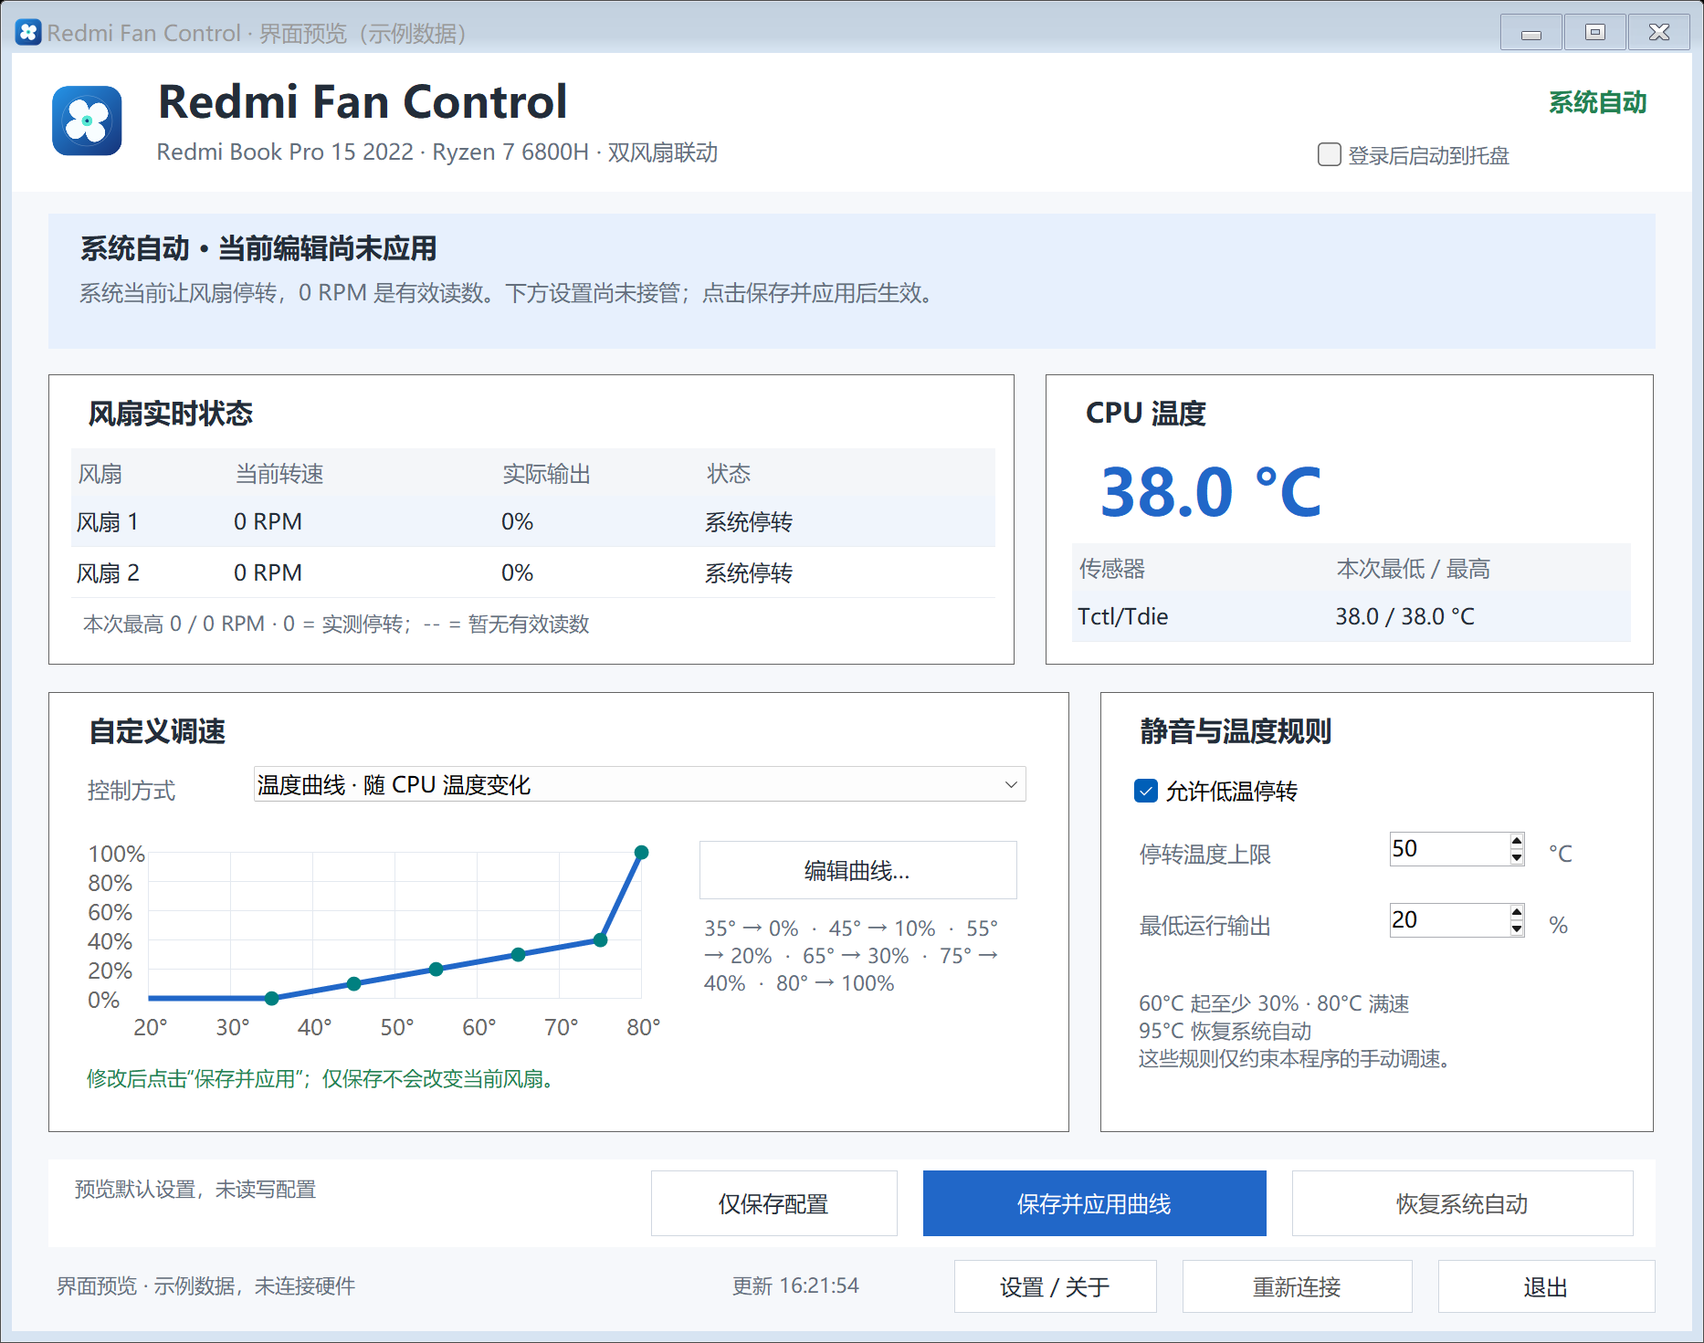
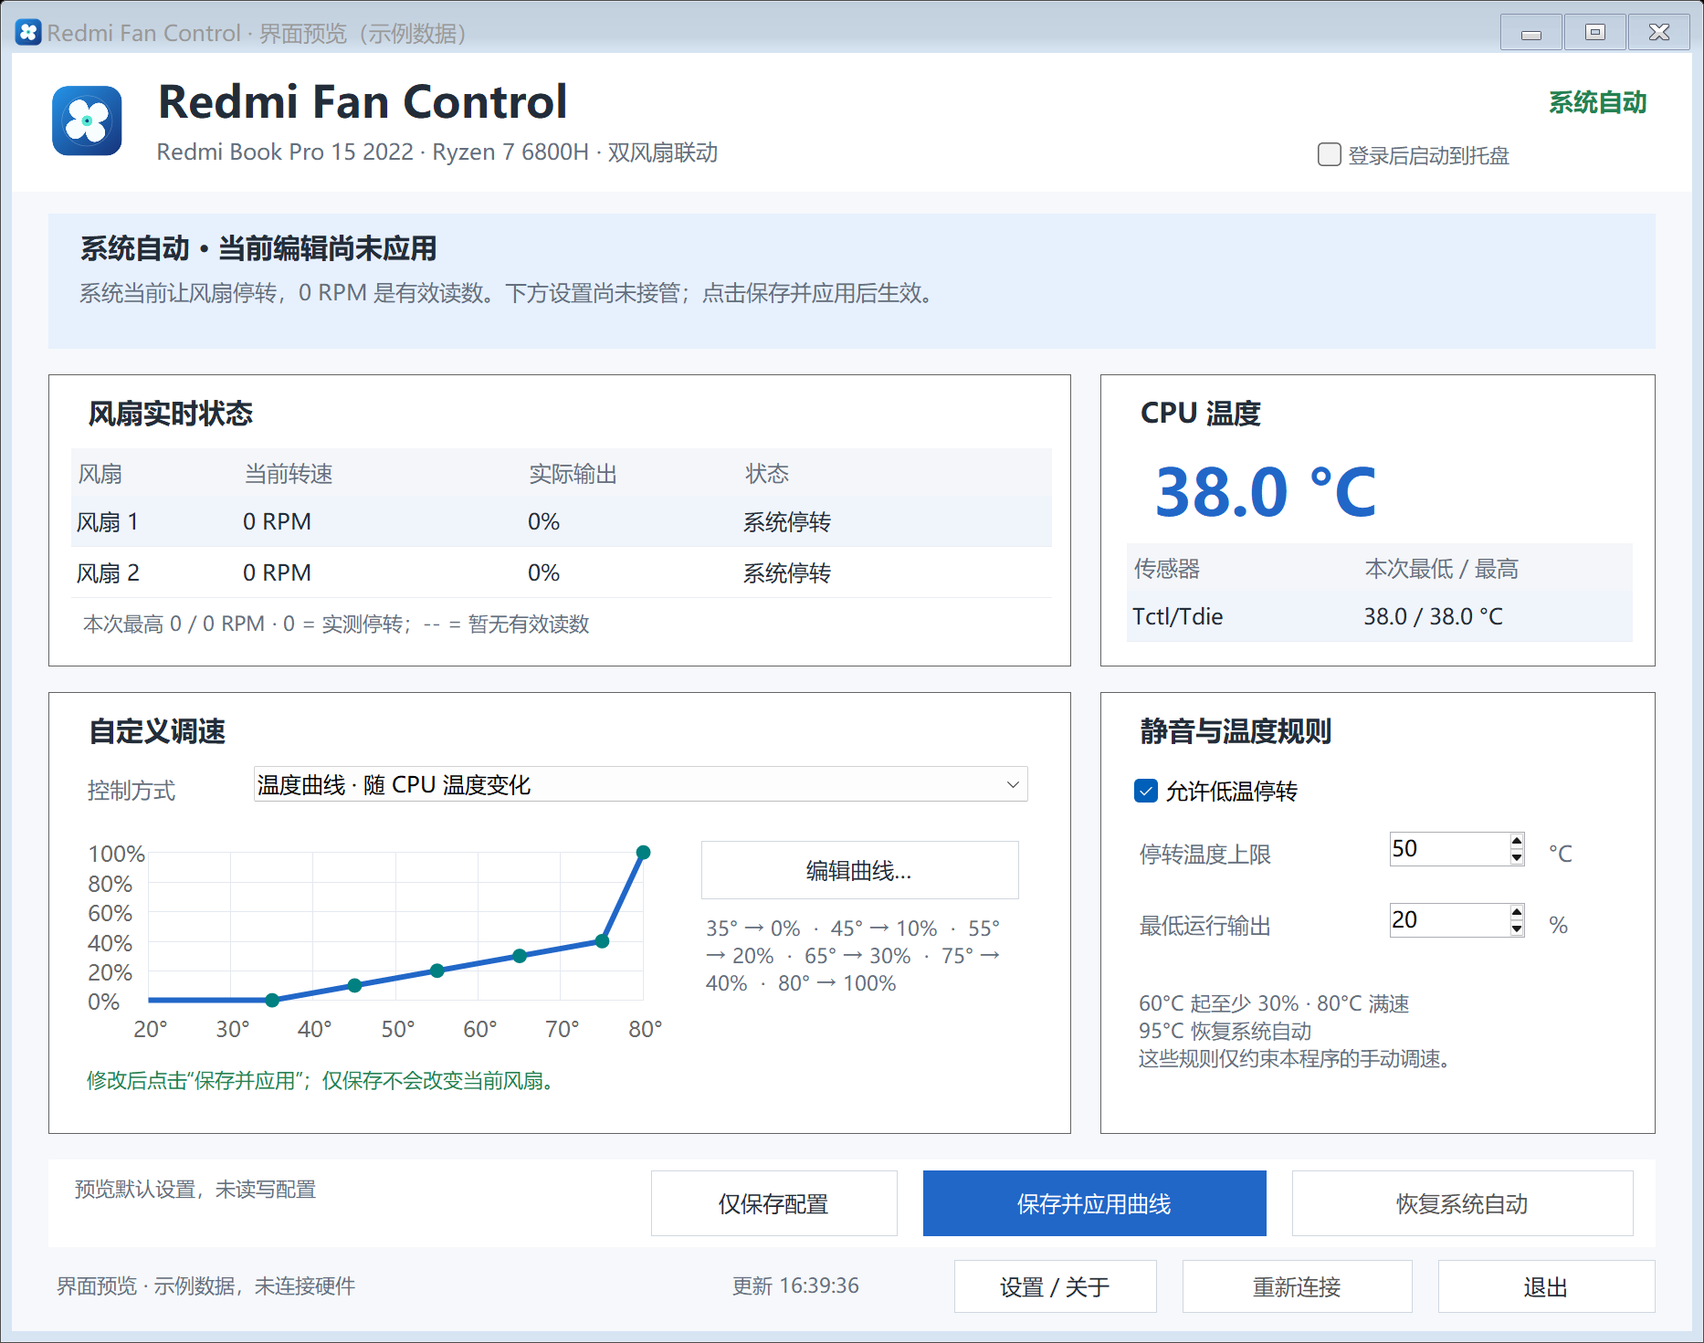
Fix maximize and restore layout in 0.9.1

diff --git a/app/MainForm.Layout.cs b/app/MainForm.Layout.cs
@@ -12,8 +12,8 @@ namespace RedmiFanControl {
             ClientSize=new Size(920,700);MinimumSize=new Size(760,520);
             StartPosition=FormStartPosition.CenterScreen;Font=new Font("Microsoft YaHei UI",9);
             BackColor=Color.FromArgb(246,248,251);Icon=AppBrand.WindowIcon();
-            var scroll=new Panel{Dock=DockStyle.Fill,AutoScroll=true};Controls.Add(scroll);
-            canvas=new Panel{Size=new Size(920,700),Location=Point.Empty};scroll.Controls.Add(canvas);
+            viewport=new Panel{Dock=DockStyle.Fill,AutoScroll=true};Controls.Add(viewport);
+            canvas=new Panel{Size=new Size(920,700),Location=Point.Empty};viewport.Controls.Add(canvas);
             var header=new Panel{Location=Point.Empty,Size=new Size(920,76),BackColor=Color.White};canvas.Controls.Add(header);
             var logo=new PictureBox{Image=AppBrand.HeaderImage(),Location=new Point(20,16),Size=new Size(42,42),SizeMode=PictureBoxSizeMode.Zoom};header.Controls.Add(logo);
             AddLabel(header,"Redmi Fan Control",74,10,520,30,18,Ink,true);
@@ -23,26 +23,26 @@ namespace RedmiFanControl {
             statePanel=new Panel{Location=new Point(20,88),Size=new Size(880,74),BackColor=Color.FromArgb(231,240,253)};canvas.Controls.Add(statePanel);
             stateHeading=AddLabel(statePanel,"正在连接硬件",14,8,850,25,11,Ink,true);
             note=AddLabel(statePanel,"连接后可查看温度与转速。",14,35,850,34,9,Muted,false);
-            var left=Section("风扇实时状态",20,176,530,160);
+            var left=fanSection=Section("风扇实时状态",20,176,530,160);
             fans=Grid(left,12,40,506,82,new string[]{"风扇","当前转速","实际输出","状态"},new float[]{17,29,22,32});
             fans.Rows.Add("风扇 1","--","--","等待数据");fans.Rows.Add("风扇 2","--","--","等待数据");
             fanHint=AddLabel(left,"等待实时数据；读取失败显示 --。",16,128,496,22,8,Muted,false);
-            var right=Section("CPU 温度",566,176,334,160);
+            var right=temperatureSection=Section("CPU 温度",566,176,334,160);
             cpuBadge=AddLabel(right,"-- °C",20,40,290,45,26,Blue,true);
             sensors=Grid(right,14,92,306,55,new string[]{"传感器","本次最低 / 最高"},new float[]{46,54});
             sensors.Rows.Add("Tctl/Tdie","--");
-            var control=Section("自定义调速",20,350,560,242);
+            var control=controlSection=Section("自定义调速",20,350,560,242);
             AddLabel(control,"控制方式",18,45,90,26,9,Muted,false);
             controlMode=new ComboBox{DropDownStyle=ComboBoxStyle.DropDownList,Location=new Point(112,40),Size=new Size(425,29)};
             controlMode.Items.AddRange(new object[]{"固定百分比 · 0–100%","目标转速 · RPM","温度曲线 · 随 CPU 温度变化"});controlMode.SelectedIndex=2;control.Controls.Add(controlMode);
             percentPanel=new Panel{Location=new Point(16,78),Size=new Size(526,116)};control.Controls.Add(percentPanel);
             slider=new TrackBar{Minimum=0,Maximum=100,Value=60,TickFrequency=10,SmallChange=1,LargeChange=5,Location=new Point(0,4),Size=new Size(360,46)};percentPanel.Controls.Add(slider);
             number=new NumericUpDown{Minimum=0,Maximum=100,Value=60,Location=new Point(377,12),Size=new Size(88,28)};percentPanel.Controls.Add(number);
-            AddLabel(percentPanel,"%",474,15,30,23,10,Muted,false);
+            var percentUnit=AddLabel(percentPanel,"%",474,15,30,23,10,Muted,false);
             AddLabel(percentPanel,"快捷预设",8,65,80,24,9,Muted,false);
             presets=new ComboBox{DropDownStyle=ComboBoxStyle.DropDownList,Location=new Point(96,60),Size=new Size(181,28)};
             foreach(int value in PresetValues)presets.Items.Add(value==0?"0% · 请求停转":value+"%" );presets.SelectedIndex=4;percentPanel.Controls.Add(presets);
-            AddLabel(percentPanel,"实际输出受右侧规则约束",294,65,225,25,8,Muted,false);
+            var percentHint=AddLabel(percentPanel,"实际输出受右侧规则约束",294,65,225,25,8,Muted,false);
             rpmPanel=new Panel{Location=percentPanel.Location,Size=percentPanel.Size};control.Controls.Add(rpmPanel);
             AddLabel(rpmPanel,"目标转速",8,14,100,26,11,Ink,true);
             rpmTarget=new NumericUpDown{Minimum=0,Maximum=6000,Increment=100,Value=3000,Location=new Point(118,11),Size=new Size(130,30)};rpmPanel.Controls.Add(rpmTarget);
@@ -53,7 +53,7 @@ namespace RedmiFanControl {
             curveText=new TextBox{Visible=false,Text=CurveFormat.Format(new UserConfiguration().Curve)};control.Controls.Add(curveText);
             InitializeConfigurationUi(curvePanel);
             validation=AddLabel(control,"",18,203,520,28,8,Muted,false);
-            var rules=Section("静音与温度规则",596,350,304,242);InitializeStopRules(rules);
+            var rules=rulesSection=Section("静音与温度规则",596,350,304,242);InitializeStopRules(rules);
             var footer=new Panel{Location=new Point(20,606),Size=new Size(880,48),BackColor=Color.White};canvas.Controls.Add(footer);
             configStatus=AddLabel(footer,"尚未保存配置",12,8,310,32,8,Muted,false);
             saveConfig=Button(footer,"仅保存配置",330,6,135,36,false);saveConfig.Click+=delegate{SaveConfigurationUi();};
@@ -65,6 +65,16 @@ namespace RedmiFanControl {
             reconnect=Button(canvas,"连接硬件",641,661,126,29,false);exit=Button(canvas,"退出",781,661,119,29,false);
             Disposed+=delegate{logo.Image.Dispose();Icon.Dispose();hints.Dispose();timer.Dispose();tray.Dispose();};
             ResumeLayout(false);UiScale.Apply(this,new Size(920,700),new Size(760,520));
+            // Apply anchors only after DPI scaling, so parent resizing cannot scale offsets twice.
+            AnchorMany(AnchorStyles.Top|AnchorStyles.Left|AnchorStyles.Right,header,statePanel,stateHeading,note,fans,fanHint,sensors,controlMode,percentPanel,rpmPanel,slider);
+            AnchorMany(AnchorStyles.Top|AnchorStyles.Left|AnchorStyles.Right,cpuBadge,left.Controls[0],right.Controls[0],control.Controls[0],rules.Controls[0]);
+            AnchorMany(AnchorStyles.Top|AnchorStyles.Right,mode,startupBox,number,percentUnit,percentHint,editCurve,curveSummary);
+            AnchorMany(AnchorStyles.Top|AnchorStyles.Bottom|AnchorStyles.Left|AnchorStyles.Right,curvePanel,curvePreview);
+            AnchorMany(AnchorStyles.Bottom|AnchorStyles.Left|AnchorStyles.Right,validation,footer,status);
+            AnchorMany(AnchorStyles.Bottom|AnchorStyles.Right,updated,data,reconnect,exit);
+            AnchorMany(AnchorStyles.Top|AnchorStyles.Right,saveConfig,apply,automatic);
+            AnchorMany(AnchorStyles.Top|AnchorStyles.Left|AnchorStyles.Right,configStatus);
+            InitializeResponsiveLayout();
         }
         void ShowSettings(){
             using(var dialog=new Form{Text="设置与关于",Icon=AppBrand.WindowIcon(),ClientSize=new Size(570,300),Font=Font,StartPosition=FormStartPosition.CenterParent,FormBorderStyle=FormBorderStyle.FixedDialog,MaximizeBox=false,MinimizeBox=false}){

diff --git a/app/MainForm.Tests.cs b/app/MainForm.Tests.cs
@@ -3,6 +3,39 @@ using System.Drawing;
 using System.Windows.Forms;
 namespace RedmiFanControl {
     public sealed partial class MainForm {
+        internal void VerifyResizeLayout(){
+            if(!preview)throw new InvalidOperationException("Resize test must not access hardware.");
+            Opacity=0;ShowInTaskbar=false;StartPosition=FormStartPosition.Manual;Location=new Point(-2500,-2500);Show();Application.DoEvents();
+            Size normal=ClientSize;float fontSize=stateHeading.Font.Size;
+            var original=new System.Collections.Generic.Dictionary<Control,Rectangle>();
+            foreach(Control control in new Control[]{canvas,fanSection,temperatureSection,controlSection,rulesSection,curvePanel,curvePreview,editCurve,number,slider,apply,exit})original[control]=control.Bounds;
+            ClientSize=new Size(normal.Width+LayoutPixels(360),normal.Height+LayoutPixels(180));Application.DoEvents();
+            VerifyLayoutBounds();
+            if(ClientSize.Width>normal.Width && curvePreview.Width<=original[curvePreview].Width)throw new Exception("Wide window did not expand curve graph");
+            if(ClientSize.Height>normal.Height && curvePreview.Height<=original[curvePreview].Height)throw new Exception("Tall window did not expand curve graph");
+            WindowState=FormWindowState.Maximized;Application.DoEvents();VerifyLayoutBounds();
+            for(int modeIndex=0;modeIndex<3;modeIndex++){controlMode.SelectedIndex=modeIndex;Application.DoEvents();VerifyLayoutBounds();}
+            WindowState=FormWindowState.Normal;ClientSize=normal;controlMode.SelectedIndex=2;Application.DoEvents();VerifyLayoutBounds();
+            foreach(var pair in original)if(pair.Key.Bounds!=pair.Value)throw new Exception("Maximize/restore changed original bounds: "+pair.Key.GetType().Name+" "+pair.Value+" -> "+pair.Key.Bounds);
+            Size minimumClient=new Size(LayoutPixels(760),LayoutPixels(520));ClientSize=minimumClient;Application.DoEvents();VerifyLayoutBounds();
+            if(viewport.ClientSize.Width<LayoutPixels(920) && !viewport.HorizontalScroll.Visible)throw new Exception("Small window must scroll horizontally");
+            if(viewport.ClientSize.Height<LayoutPixels(700) && !viewport.VerticalScroll.Visible)throw new Exception("Small window must scroll vertically");
+            viewport.AutoScrollPosition=new Point(LayoutPixels(150),LayoutPixels(180));Application.DoEvents();
+            ClientSize=normal;Application.DoEvents();VerifyLayoutBounds();
+            if(stateHeading.Font.Size!=fontSize)throw new Exception("Window resizing must not enlarge fonts");
+            foreach(var pair in original)if(pair.Key.Bounds!=pair.Value)throw new Exception("Shrink/restore drift: "+pair.Key.GetType().Name);
+            Hide();
+        }
+        void VerifyLayoutBounds(){
+            if(canvas.Width!=Math.Max(LayoutPixels(920),viewport.ClientSize.Width) || canvas.Height!=Math.Max(LayoutPixels(700),viewport.ClientSize.Height))throw new Exception("Content must fill the available viewport");
+            if(fanSection.Right>=temperatureSection.Left || controlSection.Right>=rulesSection.Left || fanSection.Left!=controlSection.Left || temperatureSection.Left!=rulesSection.Left)throw new Exception("Cards overlap or columns are misaligned");
+            if(Math.Abs(rulesSection.Right-(canvas.Width-LayoutPixels(20)))>1 || Math.Abs(exit.Bottom-(canvas.Height-LayoutPixels(10)))>2)throw new Exception("Cards and actions must follow window edges");
+            if(controlSection.Bottom>=apply.Parent.Top || apply.Parent.Bottom>=exit.Top)throw new Exception("Editor overlaps the bottom action area");
+            foreach(Control child in new Control[]{fans,sensors,cpuBadge,fanSection.Controls[0],temperatureSection.Controls[0],controlSection.Controls[0],rulesSection.Controls[0],controlMode,curvePanel,curvePreview,editCurve,curveSummary,validation,slider,number,saveConfig,apply,automatic}){
+                if(!child.Parent.ClientRectangle.Contains(child.Bounds))throw new Exception("Resized control clipped by parent: "+child.GetType().Name+" "+child.Bounds+" inside "+child.Parent.ClientSize);
+            }
+            if(curvePreview.Right>=editCurve.Left || slider.Right>=number.Left || saveConfig.Right>=apply.Left || apply.Right>=automatic.Left)throw new Exception("Resized editor or action controls overlap");
+        }
         internal void VerifyShutdownContract(string directory){
             if(!preview)throw new InvalidOperationException("Shutdown test must not access hardware.");
             ShowInTaskbar=false;StartPosition=FormStartPosition.Manual;Location=new Point(-2500,-2500);Show();Application.DoEvents();

diff --git a/app/MainForm.Resize.cs b/app/MainForm.Resize.cs
@@ -1,0 +1,41 @@
+using System;
+using System.Drawing;
+using System.Windows.Forms;
+namespace RedmiFanControl {
+    public sealed partial class MainForm {
+        Panel viewport,fanSection,temperatureSection,controlSection,rulesSection;
+        float layoutScale;bool arrangingContent;
+        static void AnchorMany(AnchorStyles anchors,params Control[] controls){foreach(var control in controls)control.Anchor=anchors;}
+        int LayoutPixels(int value){return (int)Math.Round(value*layoutScale);}
+        void InitializeResponsiveLayout(){
+            using(var graphics=CreateGraphics())layoutScale=graphics.DpiX/96f;
+            viewport.AutoScrollMinSize=new Size(LayoutPixels(920),LayoutPixels(700));
+            viewport.ClientSizeChanged+=delegate{ArrangeContent();};
+            ArrangeContent();
+        }
+        void ArrangeContent(){
+            if(arrangingContent || IsDisposed || layoutScale==0)return;
+            arrangingContent=true;
+            try{
+                // Scrollbars can reduce ClientSize again. Settle both axes without
+                // changing the user's scroll position or scaling fonts on resize.
+                for(int pass=0;pass<3;pass++){
+                    int width=Math.Max(LayoutPixels(920),viewport.ClientSize.Width);
+                    int height=Math.Max(LayoutPixels(700),viewport.ClientSize.Height);
+                    canvas.SuspendLayout();
+                    try{
+                        canvas.Size=new Size(width,height);
+                        int leftWidth=LayoutPixels(560)+(int)Math.Round((width-LayoutPixels(920))*0.65);
+                        int rightX=LayoutPixels(36)+leftWidth,rightWidth=width-LayoutPixels(20)-rightX;
+                        fanSection.SetBounds(LayoutPixels(20),LayoutPixels(176),leftWidth,LayoutPixels(160));
+                        temperatureSection.SetBounds(rightX,LayoutPixels(176),rightWidth,LayoutPixels(160));
+                        controlSection.SetBounds(LayoutPixels(20),LayoutPixels(350),leftWidth,height-LayoutPixels(458));
+                        rulesSection.SetBounds(rightX,LayoutPixels(350),rightWidth,height-LayoutPixels(458));
+                    }finally{canvas.ResumeLayout(true);}
+                    viewport.PerformLayout();
+                    if(canvas.Width==Math.Max(LayoutPixels(920),viewport.ClientSize.Width) && canvas.Height==Math.Max(LayoutPixels(700),viewport.ClientSize.Height))break;
+                }
+            }finally{arrangingContent=false;}
+        }
+    }
+}

diff --git a/app/AppTests.cs b/app/AppTests.cs
@@ -35,6 +35,7 @@ namespace RedmiFanControl {
                 System.Windows.Forms.Application.EnableVisualStyles();System.Windows.Forms.Application.SetCompatibleTextRenderingDefault(false);
                 using(var ui=new MainForm(true))ui.VerifyUiContract();
                 using(var ui=new MainForm(true))ui.VerifyUiStates();
+                using(var ui=new MainForm(true))ui.VerifyResizeLayout();
                 using(var ui=new MainForm(true))ui.VerifyAutostartUi();
                 using(var ui=new MainForm(true))ui.VerifyShutdownContract(testDirectory);
                 var startupStore=new MemoryStartupStore();Autostart.Set(startupStore,@"C:\Fan Control\RedmiFanControl.exe",true);
@@ -42,7 +43,7 @@ namespace RedmiFanControl {
                 Autostart.Set(startupStore,@"C:\Fan Control\RedmiFanControl.exe",false);Require(startupStore.Read()==null,"Startup removal");
                 Reject(delegate{Autostart.Command("relative.exe");});Reject(delegate{Autostart.Command("C:\\bad\"name.exe");});
                 using(var editor=new CurveEditor(new UserConfiguration().Curve))editor.VerifyContract();
-                File.WriteAllText(output,"PASS: independent EXE runtime extraction and tamper repair; legacy config migration without overwrite; asynchronous QUIT and same-session recovery; active-mode-only UI; stopped vs unavailable telemetry; thermal sweeps, requested->target rules, guardian floors, stop/stall, persistence/editor/heartbeats and 95C boundary. No hardware or real user settings accessed.");return 0;
+                File.WriteAllText(output,"PASS: maximize/restore/resize/scroll layout and all mode editors; independent EXE runtime extraction and tamper repair; legacy config migration without overwrite; asynchronous QUIT and same-session recovery; active-mode-only UI; stopped vs unavailable telemetry; thermal sweeps, requested->target rules, guardian floors, stop/stall, persistence/editor/heartbeats and 95C boundary. No hardware or real user settings accessed.");return 0;
             }catch(Exception ex){File.WriteAllText(output,"FAIL: "+ex);return 1;}
         }
         static void Require(bool ok,string text){if(!ok)throw new Exception(text);}

diff --git a/app/Program.cs b/app/Program.cs
@@ -18,7 +18,7 @@ namespace RedmiFanControl {
                 if(args.Length>0 && args[0]=="--stop-test")return SmokeTest.StopTest(args[1]);
                 Application.EnableVisualStyles();Application.SetCompatibleTextRenderingDefault(false);
                 if(args.Length==2 && args[0]=="--preview-curve"){using(var editor=new CurveEditor(new UserConfiguration().Curve))editor.SavePreview(args[1]);return 0;}
-                bool preview=args.Length==2 && (args[0]=="--preview" || args[0]=="--preview-stopped" || args[0]=="--preview-percent" || args[0]=="--preview-offline");
+                bool preview=args.Length==2 && (args[0]=="--preview" || args[0]=="--preview-stopped" || args[0]=="--preview-percent" || args[0]=="--preview-offline" || args[0]=="--preview-maximized");
                 bool startup=args.Length==1 && args[0]=="--startup";
                 using(var singleton=new Mutex(false,"Local\\RedmiFanControl.TM2113.UI")){
                     bool ownsMutex=false;

diff --git a/app/MainForm.cs b/app/MainForm.cs
@@ -205,7 +205,9 @@ namespace RedmiFanControl {
             RefreshActions();
         }
         public void SavePreview(string path,string scenario="--preview"){
+            if(scenario=="--preview-maximized")Opacity=0;
             ShowInTaskbar=false;StartPosition=FormStartPosition.Manual;Location=new Point(-2500,-2500);Show();Application.DoEvents();
+            if(scenario=="--preview-maximized"){WindowState=FormWindowState.Maximized;Application.DoEvents();}
             Text="Redmi Fan Control · 界面预览（示例数据）";
             var sample=new Frame{Utc=DateTime.UtcNow.ToString("o"),Connected=true,CanControl=true,Manual=false,Rpm1=2652,Rpm2=2671,Output1=30.5,Output2=34.4,CpuC=42.5,Status="界面预览 · 示例数据，未连接硬件"};
             if(scenario=="--preview-stopped"){sample.Rpm1=sample.Rpm2=0;sample.Output1=sample.Output2=0;sample.CpuC=38;}

diff --git a/app/AssemblyInfo.cs b/app/AssemblyInfo.cs
@@ -2,5 +2,5 @@ using System.Reflection;
 [assembly: AssemblyTitle("Redmi Fan Control")]
 [assembly: AssemblyDescription("Experimental protected percentage, RPM and CPU-curve fan control for TM2113/P.11")]
 [assembly: AssemblyProduct("Redmi Fan Control")]
-[assembly: AssemblyVersion("0.9.0.0")]
-[assembly: AssemblyFileVersion("0.9.0.0")]
+[assembly: AssemblyVersion("0.9.1.0")]
+[assembly: AssemblyFileVersion("0.9.1.0")]

diff --git a/docs/REFACTOR-0.9.md b/docs/REFACTOR-0.9.md
@@ -40,3 +40,11 @@
 发布检查将 ZIP 解压后运行自测，并另将 EXE 单独复制到空目录运行同样自测。测试目录与真实配置、登录自启项、硬件会话隔离。CI 同时校验 EXE 和 ZIP 的 SHA-256。
 
 上述回归不等同于真实高温、实际停转或看护进程故障注入验证。旧版正在调速时，应先通过其“×”或退出正常恢复自动，再运行新版。
+
+## 0.9.1：最大化布局修复
+
+0.9.0 的 DPI 缩放只在启动时执行，主画布固定为 920 × 700 逻辑像素。标题栏双击最大化后，外层窗口扩大而内容没有跟随，造成右侧、底部大片空白。
+
+0.9.1 将 DPI 缩放与窗口尺寸调整分开：文字保持当前 DPI 下的大小，两列卡片随可用宽度扩展并对齐，曲线图随编辑区增大，底部操作区跟随窗口底边。小于内容最小尺寸时保留滚动访问。布局独立在 `MainForm.Resize.cs`，未修改硬件读写与调速策略。
+
+新增回归覆盖放大、系统最大化、三种模式切换、还原、小窗口滚动，以及反复调整后控件位置和大小不漂移；同时检查卡片、编辑控件、操作按钮没有重叠或裁切。
